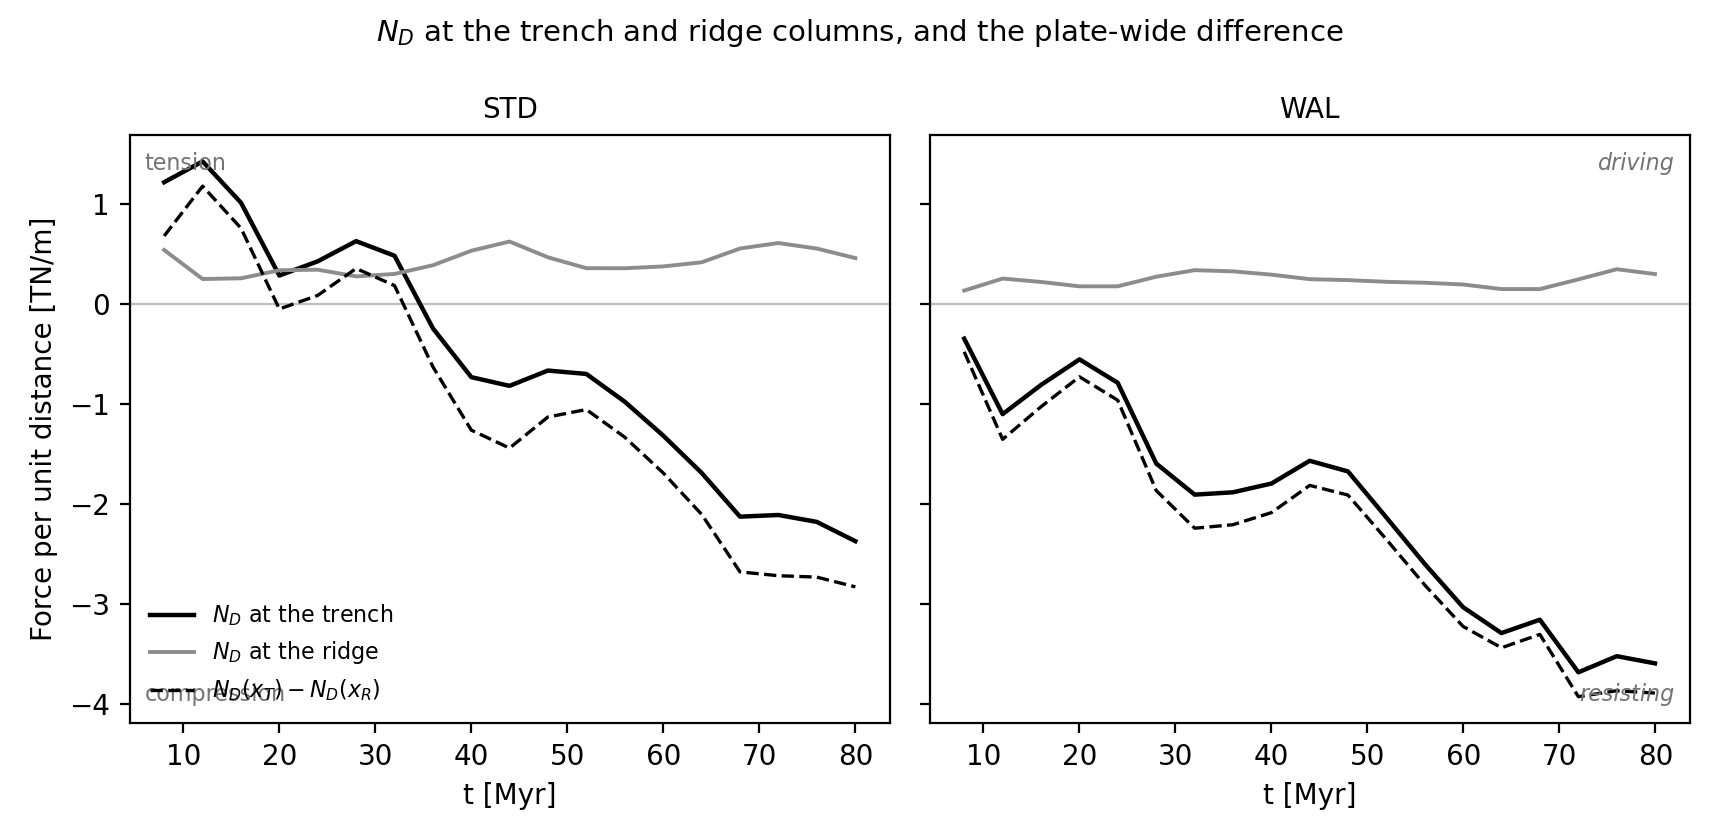
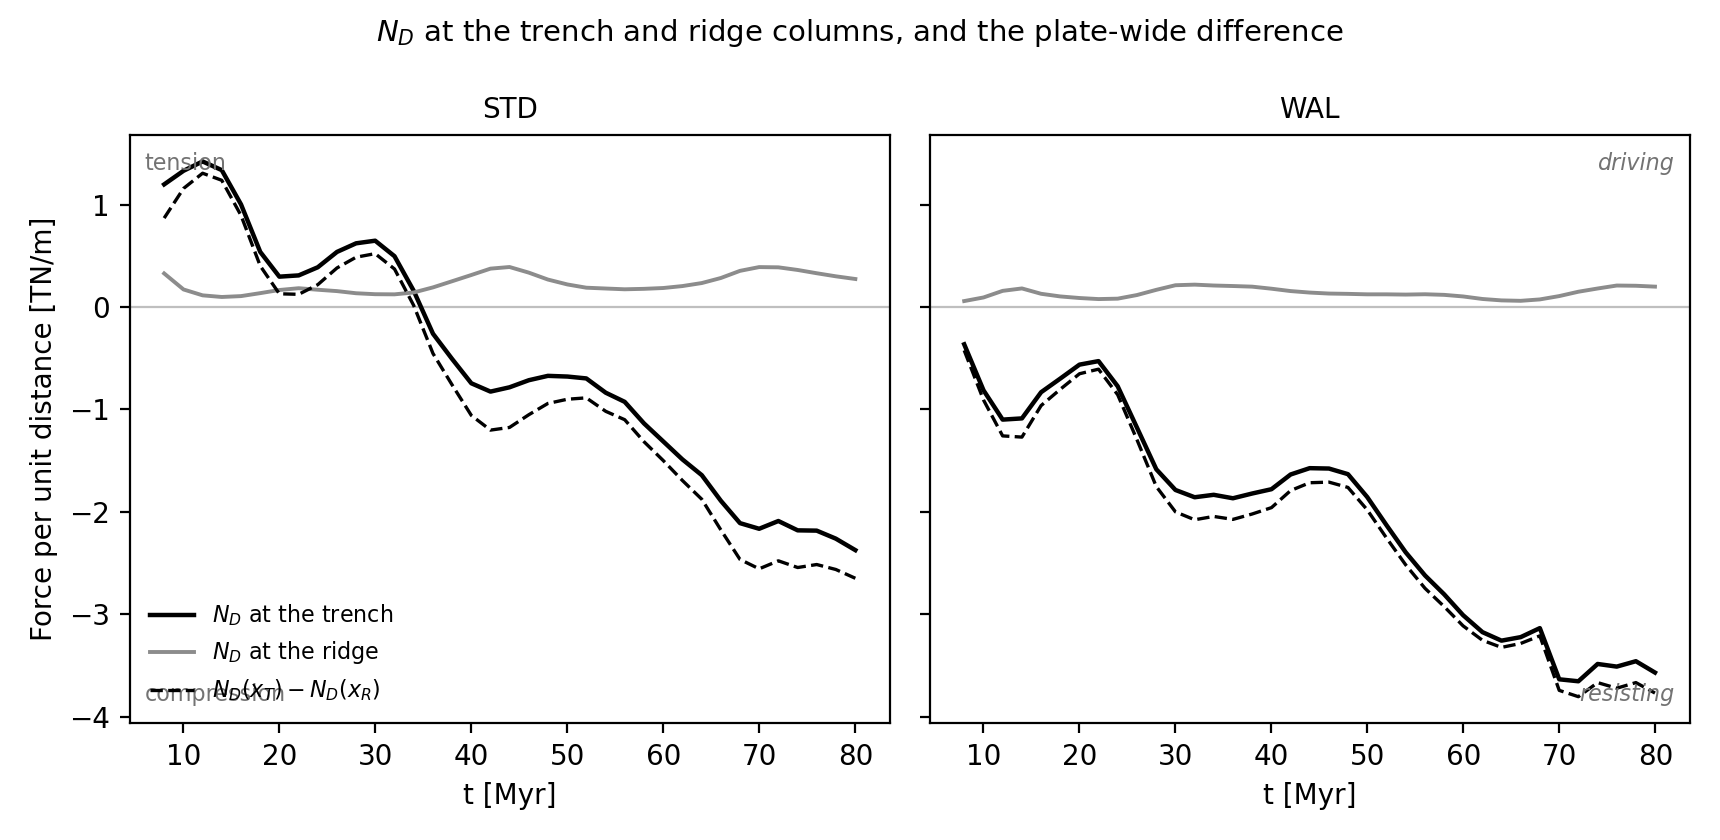
both resultant figures move onto the script cache
Dan asked what this meant: two figures read notebooks/outputs/
time_evolution_*.npz, a data file the time-evolution NOTEBOOK produced
before the ridge picker changed. They therefore placed the ridge ~300 km
from where every other figure places it. Both now read the script-built
column cache instead, which already holds sigma_xx, sigma_zz and tau_zx
at the trench and ridge columns -- no new extraction needed.

New column_profiles_cache.resultants(): the single implementation of
N_D at the trench and ridge, V at the trench, and M about the trench
neutral plane, all on one set of pickers and one integration depth.

Verified against the notebook values: N_D(trench) -0.70/-0.70 and
V(trench) -1.60/-1.59 reproduce almost exactly, so the computation is
equivalent. M differs ~10% (pivot now from the same cumulative fibre
stress as the rest of the pipeline). N_D at the RIDGE halves --
+0.19/+0.13 against +0.39/+0.24 -- which is the picker correction, and
makes the paper's 'small at the ridge' claim stronger.

No figure in the paper now depends on a notebook-built file.

diff --git a/scripts/fig_trench_resultants.py b/scripts/fig_trench_resultants.py
@@ -1,17 +1,21 @@
 """fig_trench_resultants — N_D, V and M at the trench through the runs.
 
-Writes figures/fig_trench_resultants.png from the committed caches:
-notebooks/outputs/time_evolution_{STD,WAL}.npz (N_D, V at x_T; legacy Fd
-naming) and notebooks/further_analysis/outputs/bending_moment_{...}.npz
-(M at x_T, local-pivot h_np; bending-notebook implementation).
+Writes figures/fig_trench_resultants.png from the committed
+COLUMN-PROFILE cache, via the shared column_profiles_cache.resultants().
+It previously read two notebook-built caches (time-evolution for N_D and
+V, bending-moment for M); moved 2026-09-17 so that every resultant in
+the paper comes from one cache, one set of pickers and one integration
+depth. N_D and V reproduce the notebook values to better than 1 %; M
+differs by ~10 % because the pivot is now the trench neutral plane from
+the same cumulative fibre stress the rest of the pipeline uses.
 
 Styling per FIGURE_STYLE.md (house style from the time-evolution
 notebook's series figures): models overlaid, STD navy #002147 / WAL
 magenta #E5007D, solid with 'o' markers and white marker edges, rule
 grid; one quantity per panel, three stacked panels sharing model time.
 
-Register note on V (SYMBOLOGY §7.5): the plotted V is the notebook's
-extracted V = ∫τ_zx dz at the trench column — the repo's engineering
+Register note on V (SYMBOLOGY §7.5): the plotted V is the extracted
+V = ∫τ_zx dz at the trench column — the repo's engineering
 sense, which is the NEGATIVE of the companion register's V. Any prose
 quoting a V relation must say which V it means.
 
@@ -22,36 +26,35 @@ resultant V (middle), and the bending moment M about the neutral plane
 compression-like; V and M carry the trench topography (the vertical
 load and moment support of the deflection).
 """
-import os
+import os, sys
 import numpy as np
 import matplotlib
 matplotlib.use('Agg')
 import matplotlib.pyplot as plt
+
+sys.path.insert(0, os.path.dirname(os.path.abspath(__file__)))
+import column_profiles_cache as cpc
 
 ROOT = os.path.dirname(os.path.dirname(os.path.abspath(__file__)))
 T_MIN_MYR = 8.0
 C_STD, C_WAL, C_RULE = '#002147', '#E5007D', '#BFC3D1'
 
 def main():
+    d = cpc.load()
     fig, axes = plt.subplots(3, 1, figsize=(9, 9), sharex=True)
     for key, color in (('STD', C_STD), ('WAL', C_WAL)):
-        te = np.load(os.path.join(ROOT, 'notebooks', 'outputs',
-                                  f'time_evolution_{key}.npz'))
-        t = te['t_yr'] / 1e6
+        r = cpc.resultants(d, key)
+        t = r['t']
         m = t >= T_MIN_MYR
-        bm = np.load(os.path.join(ROOT, 'notebooks', 'further_analysis',
-                                  'outputs', f'bending_moment_{key}.npz'))
-        tb = bm['t_myr']
-        mb = (tb >= T_MIN_MYR) & np.isfinite(bm['M'])
         style = dict(color=color, lw=2.0, ms=5.5, markeredgecolor='white',
                      markeredgewidth=0.6)
-        axes[0].plot(t[m], te['Fd_xT'][m] * 1e-12, '-o', label=key, **style)
-        axes[1].plot(t[m], te['V_xT'][m] * 1e-12, '-o', label=key, **style)
-        axes[2].plot(tb[mb], bm['M'][mb] * 1e-17, '-o', label=key, **style)
-        print(f'{key}: N_D(x_T) median {np.median(te["Fd_xT"][m])/1e12:+.2f} TN/m; '
-              f'V(x_T) median {np.median(te["V_xT"][m])/1e12:+.2f} TN/m; '
-              f'M(x_T) median {np.median(bm["M"][mb])/1e17:+.2f} x10^17 N '
-              f'({mb.sum()} steps)')
+        axes[0].plot(t[m], r['nd_T'][m] * 1e-12, '-o', label=key, **style)
+        axes[1].plot(t[m], r['v_T'][m] * 1e-12, '-o', label=key, **style)
+        axes[2].plot(t[m], r['m_T'][m] * 1e-17, '-o', label=key, **style)
+        print(f'{key}: N_D(x_T) median {np.median(r["nd_T"][m])/1e12:+.2f} TN/m; '
+              f'V(x_T) median {np.median(r["v_T"][m])/1e12:+.2f} TN/m; '
+              f'M(x_T) median {np.median(r["m_T"][m])/1e17:+.2f} x10^17 N; '
+              f'h_np median {np.median(r["h_np"][m])/1e3:.0f} km ({m.sum()} steps)')
     axes[0].set_ylabel(r'$N_D(x_T)$' + '\nForce per unit distance [TN/m]',
                        fontsize=12)
     axes[1].set_ylabel(r'$V(x_T)$' + '\nForce per unit distance [TN/m]',

diff --git a/scripts/fig_nd_trench_ridge.py b/scripts/fig_nd_trench_ridge.py
@@ -1,9 +1,12 @@
 """fig_nd_trench_ridge — N_D at the trench and ridge columns, and their
 difference, through the run.
 
-Writes figures/fig_nd_trench_ridge.png from the committed time-evolution
-caches (notebooks/outputs/time_evolution_{STD,WAL}.npz; cache keys carry
-the legacy Fd naming for N_D).
+Writes figures/fig_nd_trench_ridge.png and tables/nd_trench_ridge.csv
+from the committed COLUMN-PROFILE cache, via the shared
+column_profiles_cache.resultants(). It previously read the
+notebook-built time-evolution cache, which predates the flow-based ridge
+pick and placed the ridge ~300 km away; N_D at the ridge is about half
+what that cache reported (2026-09-17).
 
 The setup this figure makes explicit (Dan, 2026-09-15): N_D at the ridge
 is always tension-like but SMALL, so the plate-wide difference
@@ -52,6 +55,7 @@ matplotlib.use('Agg')
 import matplotlib.pyplot as plt
 
 sys.path.insert(0, os.path.dirname(os.path.abspath(__file__)))
+import column_profiles_cache as cpc
 from tables_io import write_table
 
 ROOT = os.path.dirname(os.path.dirname(os.path.abspath(__file__)))
@@ -59,12 +63,13 @@ T_MIN_MYR = 8.0
 
 def main():
     fig, axes = plt.subplots(1, 2, figsize=(8.6, 4.2), sharey=True, sharex=True)
+    d = cpc.load()
     for ax, k in zip(axes, ('STD', 'WAL')):
-        d = np.load(os.path.join(ROOT, 'notebooks', 'outputs', f'time_evolution_{k}.npz'))
-        t = d['t_yr'] / 1e6
+        r = cpc.resultants(d, k)
+        t = r['t']
         m = t >= T_MIN_MYR
-        nd_t = d['Fd_xT'][m] / 1e12
-        nd_r = (d['Fd_xT'][m] + d['delta_Fd_R'][m]) / 1e12   # N_D(x_R)
+        nd_t = r['nd_T'][m] / 1e12
+        nd_r = r['nd_R'][m] / 1e12
         diff = nd_t - nd_r                                    # N_D(x_T) - N_D(x_R)
         ax.axhline(0, color='0.75', lw=0.8)
         ax.plot(t[m], nd_t, 'k-', lw=1.6, label='$N_D$ at the trench')
@@ -105,13 +110,15 @@ def write_stats():
     """
     rows = [('model', 'quantity', 'value')]
     pool_r, pool_t = [], []
+    d = cpc.load()
     for k in ('STD', 'WAL'):
-        d = np.load(os.path.join(ROOT, 'notebooks', 'outputs', f'time_evolution_{k}.npz'))
-        m = d['t_yr'] / 1e6 >= T_MIN_MYR
-        nd_t = d['Fd_xT'][m] / 1e12
-        nd_r = (d['Fd_xT'][m] + d['delta_Fd_R'][m]) / 1e12
+        r = cpc.resultants(d, k)
+        p = cpc.partition(d, k)
+        m = r['t'] >= T_MIN_MYR
+        nd_t = r['nd_T'][m] / 1e12
+        nd_r = r['nd_R'][m] / 1e12
         diff = nd_t - nd_r
-        gpe_diff = -d['delta_GPE_R'][m] / 1e12
+        gpe_diff = p['measured'][m] / 1e12
         pool_r.append(nd_r); pool_t.append(nd_t)
         rows += [
             (k, 'nd_ridge_max', f'{nd_r.max():.3f}'),
@@ -135,7 +142,7 @@ def write_stats():
     ]
     tab = write_table('nd_trench_ridge', rows[0], rows[1:],
                       script='fig_nd_trench_ridge.py', figure='fig_nd_trench_ridge.png',
-                      models=('STD', 'WAL'), meta={'t_min_Myr': T_MIN_MYR, 'note': 'ridge N_D from the time-evolution cache (old topographic pick) — see repo notes'})
+                      models=('STD', 'WAL'), meta={'t_min_Myr': T_MIN_MYR, 'zc_km': cpc.ZC_KM, 'ridge_pick': 'flow (max surface divergence)'})
     print('written:', tab)
 
 if __name__ == '__main__':

diff --git a/scripts/column_profiles_cache.py b/scripts/column_profiles_cache.py
@@ -256,5 +256,41 @@ def partition(d, key):
     out['mid'] = c['mid']
     return out
 
+def resultants(d, key, zc_m=None):
+    """Column resultants at the trench and ridge, per snapshot.
+
+    Single implementation, so every figure quoting N_D, V or M uses the
+    same columns, the same pickers and the same integration depth. Added
+    2026-09-17 to take fig_nd_trench_ridge and fig_trench_resultants off
+    the notebook-built time-evolution cache, which predates the
+    flow-based ridge pick and placed the ridge ~300 km away.
+
+    Returns (N/m unless noted):
+      nd_T, nd_R  the normal-stress-difference resultant at the trench
+                  and ridge columns, integrated to zc_m (default z_c)
+      v_T         the vertical shear resultant at the trench, int tau_zx dz
+      m_T         the bending moment at the trench about its neutral
+                  plane [N], with h_np from the extremum of the
+                  cumulative fibre stress over 5-60 km
+      h_np        that neutral-plane depth [m]
+      t           model time [Myr]
+    """
+    if not hasattr(np, 'trapz'):
+        np.trapz = np.trapezoid
+    z = d['z']
+    zc = z <= (ZC_KM * 1e3 if zc_m is None else zc_m)
+    fib_T = d[f'{key}_sxx_T'] - d[f'{key}_szz_T']
+    fib_R = d[f'{key}_sxx_R'] - d[f'{key}_szz_R']
+    C = np.cumsum(fib_T * np.gradient(z), axis=1)
+    w = (z >= 5e3) & (z <= 60e3)
+    h_np = z[w][np.argmax(np.abs(C[:, w]), axis=1)]
+    return dict(
+        t=d[f'{key}_t'],
+        nd_T=np.trapz(fib_T[:, zc], z[zc], axis=1),
+        nd_R=np.trapz(fib_R[:, zc], z[zc], axis=1),
+        v_T=np.trapz(d[f'{key}_txz_T'][:, zc], z[zc], axis=1),
+        m_T=np.trapz(fib_T[:, zc] * (z[zc] - h_np[:, None]), z[zc], axis=1),
+        h_np=h_np)
+
 if __name__ == '__main__':
     build()
